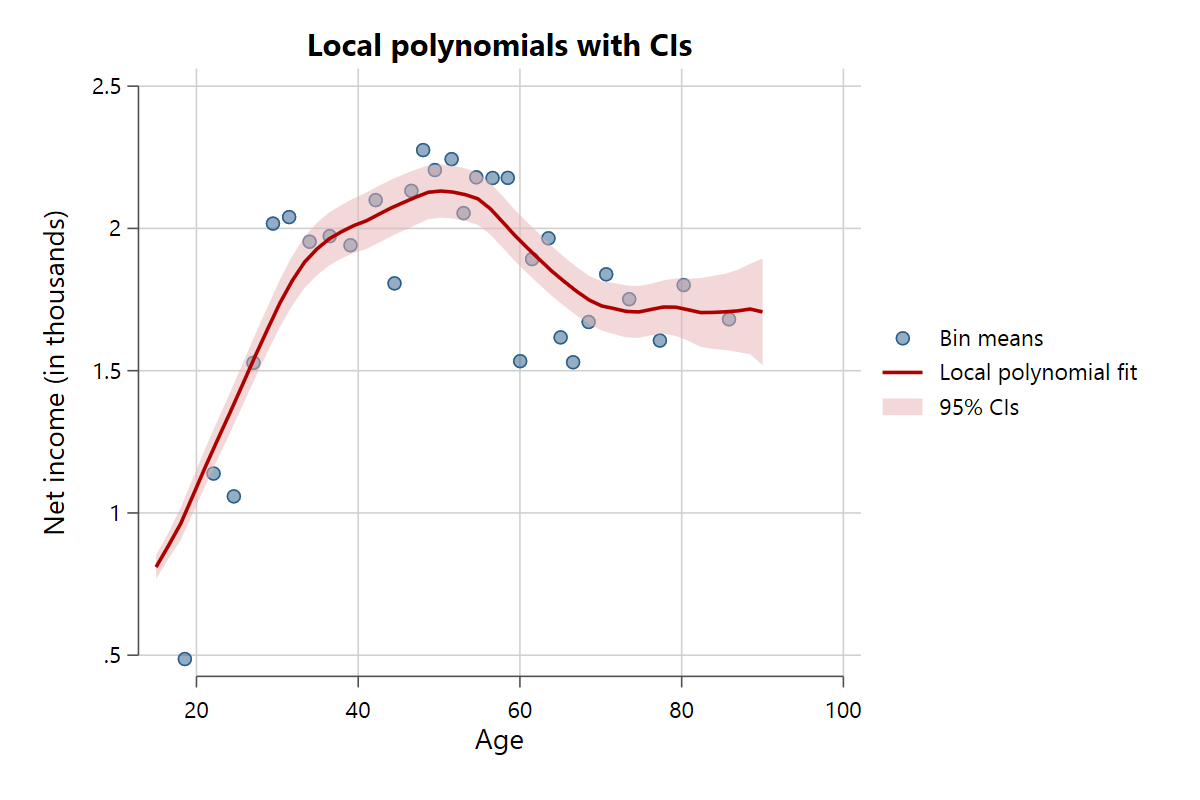
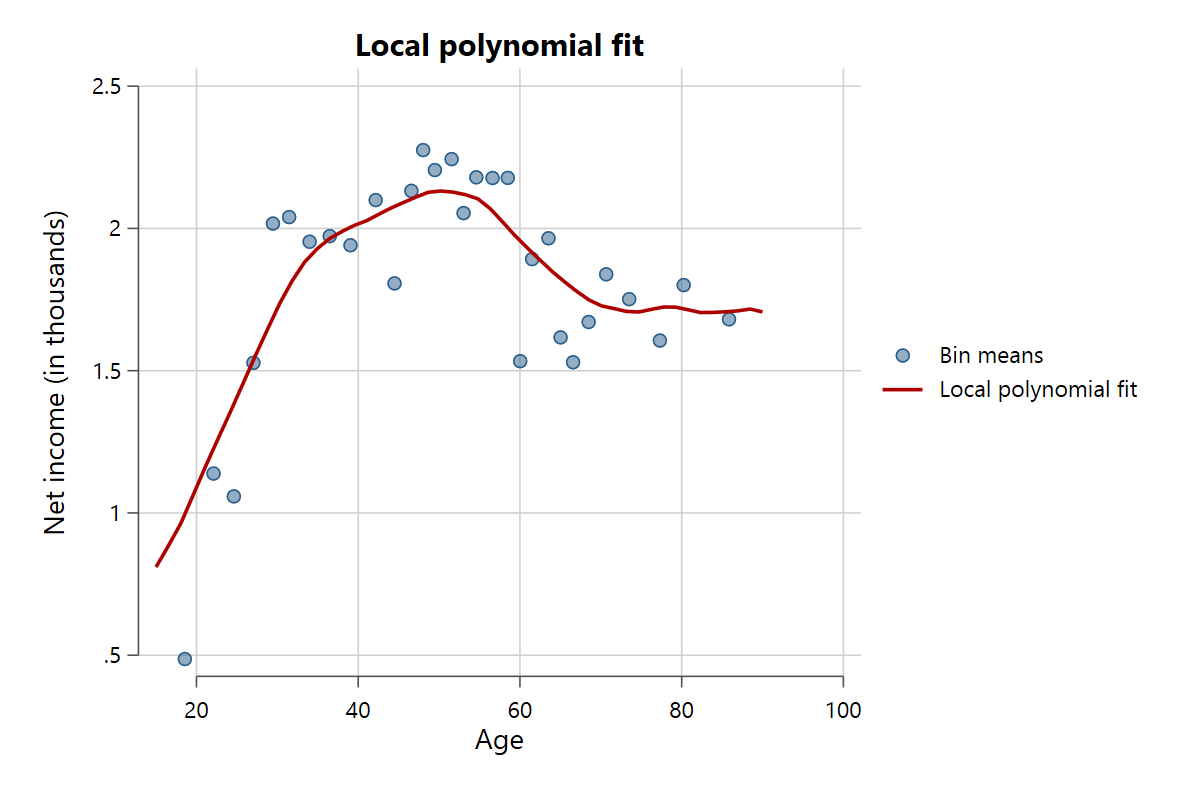
Add files via upload

Changed region(s): [[0.1233, 0.1875, 0.6475, 0.7188], [0.74, 0.4062, 0.9558, 0.5312], [0.2467, 0.0312, 0.5858, 0.0938]]

diff --git a/README.md b/README.md
@@ -1,4 +1,4 @@
-# SCATTERFIT v1.6
+# SCATTERFIT v1.8
 
 This is a Stata package that produces a wide range of scatter plots with overlaid fit lines. It comes with two commands: `scatterfit` visualizes the relationship between two variables x and y and `slopefit` visualizes the relationship between x and y conditional on another continuous variable z.
 
@@ -84,26 +84,35 @@ scatterfit right pinc_net, binned
 
 The fit line in the binary DV case is derived from linear predictions based on a logit model that is calculated internally.
 
-## Fit types
+## Fit line
 
-The command supports several fit lines, manipulated via the `fit()` option. The standard setting is `fit(lfit)` for a linear fit with no confidence intervals. Other possible settings are `fit(lfitci)` to include confidence intervals, `fit(qfit)` or `fit(qfitci)` for quadratic fits, `fit(poly)` or `fit(polyci)` for local polynomial fits, and `fit(lowess)` for a lowess smoother. Use the `bwidth()` option to control how fine-grained the smoothing is for local polynomial and lowess fits. Here are some examples.
+The command supports several fit lines, manipulated via the `fit()` option. The standard setting is `fit(linear)` for a linear fit with no confidence intervals. Other possible settings are `fit(quadratic)` for a second polynomial, `fit(cubic)` for a third polynomial, `fit(lpoly)` for a local polynomial fit, and `fit(lowess)` for a lowess smoother. Use the `bwidth()` option to control how fine-grained the smoothing is for local polynomial and lowess fits. Here are some examples.
 
 <img src="./examples/gr10.png" height="200"><img src="./examples/gr11.png" height="200">
 <img src="./examples/gr12.png" height="200"><img src="./examples/gr13.png" height="200">
+
+Confidence intervals can be included via the `ci` option. The standard are 95% confidence intervals, but this can be changed via the `level()` option. Different standard errors can be set with `vce()`.
+
+```
+scatterfit pinc_net age, binned ci
+```
+<img src="./examples/gr14.png" height="300">
+
+It is also possible to change the regression model used to derive the fit line and confidence intervals using the `fitmodel()` option. The standard is OLS for continuous dependent variables and logit for binary dependent variables. Further possible models are: `fitmodel(poisson)` for a poisson regression for count data, `fitmodel(quantile)` for quantile regression, `fitmodel(randomint, cluster(x))` for a multilevel model with random intercepts (where 'x' is the higher-level cluster variable), and `fitmodel(flogit)` and `fitmodel(fprobit)` for fractional logit/probit models. For binary dependent variables, `fitmodel(logit)`, `fitmodel(probit)`, and `fitmodel(lpm)` for a linear probability model are supported.
 
 ## Multiple plots along a by-dimension
 
 The relationship between x and y can be broken down so that separate scatter points and fits are plotted for each value of the variable defined in `by()`. Here is the relationship between age and income with separate plots for men and women.
 ```
-scatterfit pinc_net age, binned fit(lfitci) by(gender)
+scatterfit pinc_net age, binned ci by(gender)
 ```
-<img src="./examples/gr14.png" height="300">
+<img src="./examples/gr15.png" height="300">
 
 This is also a good opportunity to showcase the `mlabel()` option, which replaces the usual scatter markers with a string contained in a separate string variable or a numeric variable with labeled values.
 ```
 scatterfit pinc_net age, binned by(gender) mlabel(genderlab)
 ```
-<img src="./examples/gr15.png" height="300">
+<img src="./examples/gr16.png" height="300">
 
 ## Control variables
 
@@ -116,7 +125,7 @@ Use the `controls()` option to control linearly for continuous variables and the
 ```
 scatterfit pinc_net age, binned controls(eduyrs) fcontrols(educ emp)
 ```
-<img src="./examples/gr16.png" height="300">
+<img src="./examples/gr17.png" height="300">
 
 You will see that, even though the variables are residualized, both x and y appear to be on their original scale. This is because scatterfit adds the means of the variables back after residualization so that the variables stay on a familiar scale. That is, what you see is the residual variation relative to the mean. If you are unhappy with this behavior, use the `standardize` option to z-standardize both x and y in the plot.
 
@@ -126,9 +135,19 @@ The `regparameters()` option allows the user to print parameters from a regressi
 ```
 scatterfit pinc_net age, binned regparameters(coef se pval sig adjr2 nobs) parpos(.9 85)
 ```
-<img src="./examples/gr17.png" height="300">
+<img src="./examples/gr18.png" height="300">
 
 The program tries to find a good position for the parameters, but this is not always successful. In this case, I used the `parpos()` option to specify the position of the text box.
+
+## Distribution of the independent variable
+
+The option `xdistribution()` includes a kernel density plot that shows the distribution of the x-variable in the plot. Setting it to `xdistribution(auto)` will have scatterfit automatically look for an appropiate position and height of the density. While this is great for quick plotting, using `xdistribution(a b)` allows the use to input their own baseline position and height, where a is the position and b the height. The option is especially helpful in combination with `by()`
+
+```
+scatterfit pinc_net age, binned xdistribution(.5 .35)
+scatterfit redistr pinc_net, binned by(gender) xdistribution(1 .35)
+```
+<img src="./examples/gr19.png" height="200"><img src="./examples/gr20.png" height="200">
 
 ## Interaction models
 
@@ -139,7 +158,7 @@ The interesting part is that it now becomes possible to plot regression paramete
 ```
 scatterfit redistr pinc_net, binned by(labf) bymethod(interact) regparameters(coef pval sig int)
 ```
-<img src="./examples/gr18.png" height="300">
+<img src="./examples/gr21.png" height="300">
 
 In this example, it becomes evident that those who are part of the labor force have a significantly stronger slope coefficient of income on support for redistribution.
 
@@ -148,9 +167,9 @@ In this example, it becomes evident that those who are part of the labor force h
 While scatterfit comes with a predefined look that differs considerably from the gory Stata standard, the user may prefer a different look. The `plotscheme()` can be used to define an alternative plot scheme. You can use a Stata-native or user-written scheme here. And `colorscheme()` changes the color palette. Either put a pre-defined color palette such as s2color or tableau here, or define your own colors using a list of hex colors (for example, `colorscheme(#E6007E #009FE3 #312783)`). It is advised that you also change the color palette when you change the overall plot scheme.
 
 ```
-scatterfit pinc_net age, binned plotscheme(white_tableau) colorscheme(tableau)
+scatterfit pinc_net age, binned ci plotscheme(white_tableau) colorscheme(tableau)
 ```
-<img src="./examples/gr19.png" height="300">
+<img src="./examples/gr22.png" height="300">
 
 
 # Tutorial for slopefit
@@ -164,9 +183,9 @@ The following examples will acquaint you with the basics, but it will be much mo
 There are several methods to create the bins of z. As with scatterfit, the standard setting is to categorize z into equally sized bins based on quantile cutoff points. 
 
 ```
-slopefit pinc_net gender age, method(quantiles) nquantiles(20)
+slopefit pinc_net gender age, indslopes(quantiles) nquantiles(20)
 ```
-<img src="./examples/gr20.png" height="300">
+<img src="./examples/gr23.png" height="300">
 
 In this example, the fit line shows the results from the continuous interaction model, and the lowest scatter marker shows the effect of x among those within the bottom 5% of the z distribution. 
 
@@ -174,48 +193,48 @@ Similar to scatterfit, the bins can also be created by sorting z into equally sp
 
 
 ```
-slopefit pinc_net gender age, method(unibin) nunibin(20)
+slopefit pinc_net gender age, indslopes(unibin) nunibin(20)
 ```
-<img src="./examples/gr21.png" height="300">
+<img src="./examples/gr24.png" height="300">
 
 Or by treating z as discrete and using every single distinct value.
 
 ```
-slopefit redistr pinc_net rile, method(discrete)
+slopefit redistr pinc_net rile, indslopes(discrete)
 ```
-<img src="./examples/gr22.png" height="300">
+<img src="./examples/gr25.png" height="300">
 
 The last variant to create the bins of z is to use a user-defined binning variable that already exists in the dataset. In the following example, I will use multi-country survey data from the ESS and define the individual countries as the bins via `binvar()`. In effect, the scatter markers show the individual slope coefficients for the each country in the sample. 
 
 ```
 slopefit gincdif hinctnta rilemean, binvar(cntry) mlabel(cntry)
 ```
-<img src="./examples/gr23.png" height="300">
+<img src="./examples/gr26.png" height="300">
 
 The previous example also shows the `mlabel()` option, which replaces the usual scatter markers with labels from a string variable or labeled numerical variable (in this case the country codes).
 
 ## Confidence intervals and fit lines
 
-The `fit()` option governs options how the main fit line, derived from the linear interaction of x and z, is plotted. You may use 'lfit', 'lfitci', 'qfit', and 'qfitci'. We'll use lfitci here to add confidence intervals to the plot.
+The `fit()` option specifies the functional form of the main fit line, which is derived from the interaction of x and z. You may use 'linear' or 'quadratic'. Confidence intervals for the main fit can be added with the `ci` option.
 
 ```
-slopefit redistr pinc_net rile, method(discrete) fit(lfitci)
+slopefit redistr pinc_net rile, indslopes(discrete) ci
 ```
-<img src="./examples/gr24.png" height="300">
+<img src="./examples/gr27.png" height="300">
 
 It is also possible to plot the confidence intervals of the individual slopes with `indslopesci`, in this case at all distinct values of peoples' left-right self-placement.
 
 ```
-slopefit redistr pinc_net rile, method(discrete) fit(lfitci) indslopesci
+slopefit redistr pinc_net rile, indslopes(discrete) ci indslopesci
 ```
-<img src="./examples/gr25.png" height="300">
+<img src="./examples/gr28.png" height="300">
 
 ## Control variables
 
 Just as with scatterfit, it is simple to add control variables to the underlying regressions to get the partial relationship between x and y at different values of z. Use the `controls()` option to add continuous controls and `fcontrols()` for categorical controls.
 
 ```
-slopefit redistr pinc_net rile, method(discrete) controls(age) fcontrols(gender educ emp)
+slopefit redistr pinc_net rile, indslopes(discrete) controls(age) fcontrols(gender educ emp)
 ```
 
 ## Regression parameters
@@ -223,8 +242,8 @@ slopefit redistr pinc_net rile, method(discrete) controls(age) fcontrols(gender 
 The `regparameters()` option includes parameters from the interaction regression that uses a linear interaction term between x and z (i.e., the regression that results in the overall fit line). 'coef' shows the extent to which the effect of x changes linearly as z increases by one unit, 'pval' the associated p-value, 'sig' prints significance stars onto the interaction coefficient (*<.1, **<.05, ***<.01), and 'nobs' shows the number of observations. 
 
 ```
-slopefit redistr pinc_net rile, method(discrete) regp(coef sig pval nobs)
+slopefit redistr pinc_net rile, indslopes(discrete) regp(coef sig pval nobs)
 ```
-<img src="./examples/gr26.png" height="300">
+<img src="./examples/gr29.png" height="300">
 
 In this case, the results show that the effect of income increases significantly as people become more right-leaning.
